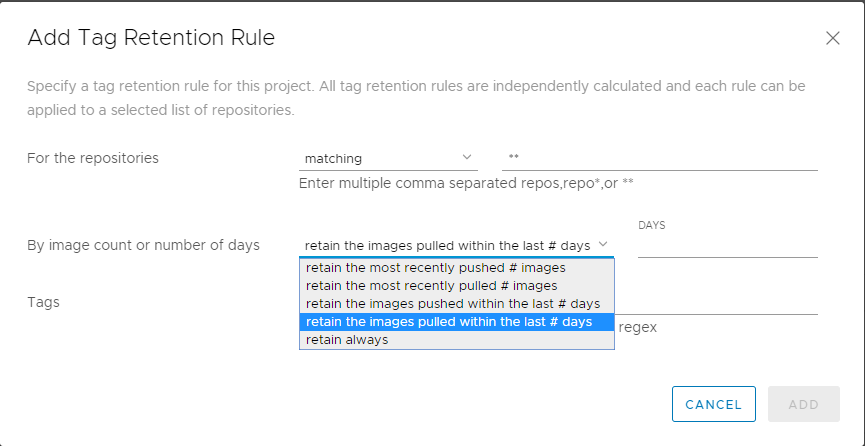
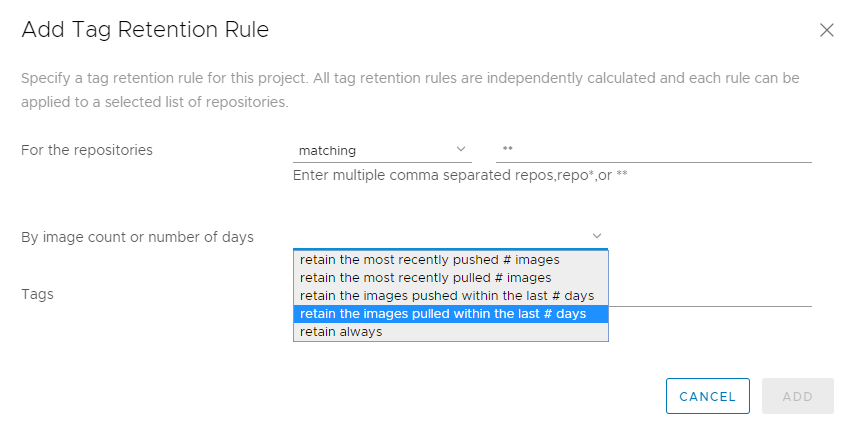
Updated tag retention doc to reflect new UI

diff --git a/docs/user_guide.md b/docs/user_guide.md
@@ -1031,12 +1031,18 @@ If you set a quota on a project, this quota cannot be exceeded. The quota is app
 
 ### Configure Tag Retention Rules
 
-1. Select a project and go to the **Tag Retention** tab.
-  ![Tag Retention option](img/tag-retention1.png)
+1. Log in to the Harbor interface with an account that has at least developer privileges.
+1. Go to **Projects**, select a project, click the More ellipsis (`...`), and select **Tag Strategy**.
+
+   ![Tag Retention option](img/tag-retention1.png)
+1. Select **Tag Retention**.
+
+   ![Tag Retention option](img/tag-retention1a.png)
+  
 1. Click **Add Rule** to add a rule.
 1. In the **For the repositories** drop-down menu, select **matching** or **excluding**.
   ![Select repositories](img/tag-retention2.png)
-1. Identify the repositories on which to apply the rule.
+1. In the **For the repositories** text box, identify the repositories on which to apply the rule.
   
    You can define the repositories on which to apply the rule by entering the following information:
   
@@ -1046,7 +1052,7 @@ If you set a quota on a project, this quota cannot be exceeded. The quota is app
    - `**` to apply the rule to all of the repositories in the project. 
   
    If you selected **matching**, the rule is applied to the repositories you identified. If you selected **excluding**, the rule is applied to all of the repositories in the project except for the ones that you identified.
-1. Define how many tags to retain or how the period to retain tags.
+1. In the **By image count or number of days** drop-down menu, define how many tags to retain or the period to retain tags.
   ![Select retention criteria](img/tag-retention3.png)
   
    |Option|Description|
@@ -1058,7 +1064,7 @@ If you set a quota on a project, this quota cannot be exceeded. The quota is app
    |**retain always**|Always retain the images identified by this rule.| 
 
 1. In the **Tags** drop-down menu, select **matching** or **excluding**.
-1. Identify the tags on which to apply the rule.
+1.  In the **Tags** text box, identify the tags on which to apply the rule.
   
    You can define the tags on which to apply the rule by entering the following information:
   
@@ -1071,7 +1077,9 @@ If you set a quota on a project, this quota cannot be exceeded. The quota is app
 1. Click **Add** to save the rule.
 1. (Optional) Click **Add Rule** to add more rules, up to a maximum of 15 per project.
 1. (Optional) Under Schedule, click **Edit** and select how often to run the rule.
+
    ![Select retention criteria](img/tag-retention4.png)
+   
    If you select **Custom**, enter a cron job command to schedule the rule. 
   
    **NOTE**: If you define multiple rules, the schedule is applied to all of the rules. You cannot schedule different rules to run at different times. 
@@ -1080,7 +1088,7 @@ If you set a quota on a project, this quota cannot be exceeded. The quota is app
 
 **WARNING**: You cannot revert a rule after you run it. It is strongly recommended to perform a dry run before you run rules. 
 
-To modify an existing rule, click the three vertical dots next to a rule to disable, edit, or delete that rule. 
+To modify an existing rule, use the **Action** drop-down menu next to a rule to disable, edit, or delete that rule. 
 
 ![Modify tag retention rules](img/tag-retention5.png)
 
